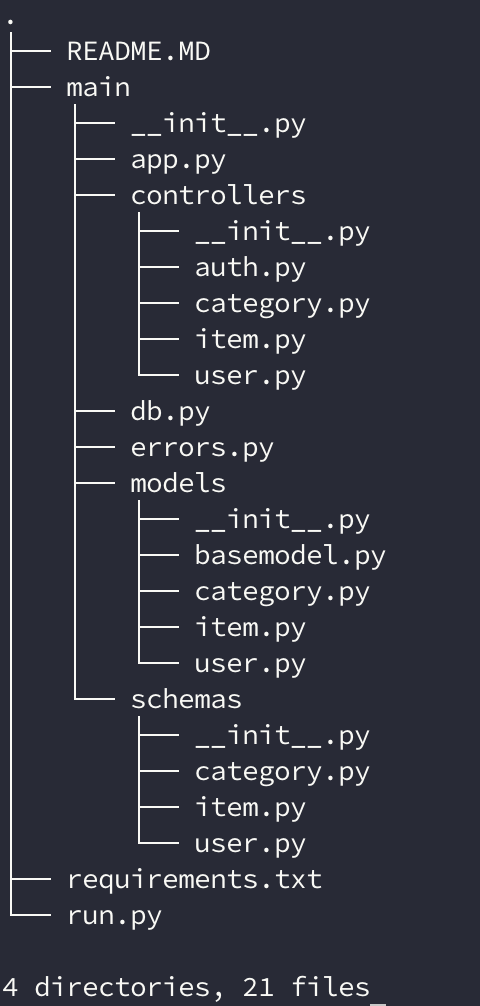
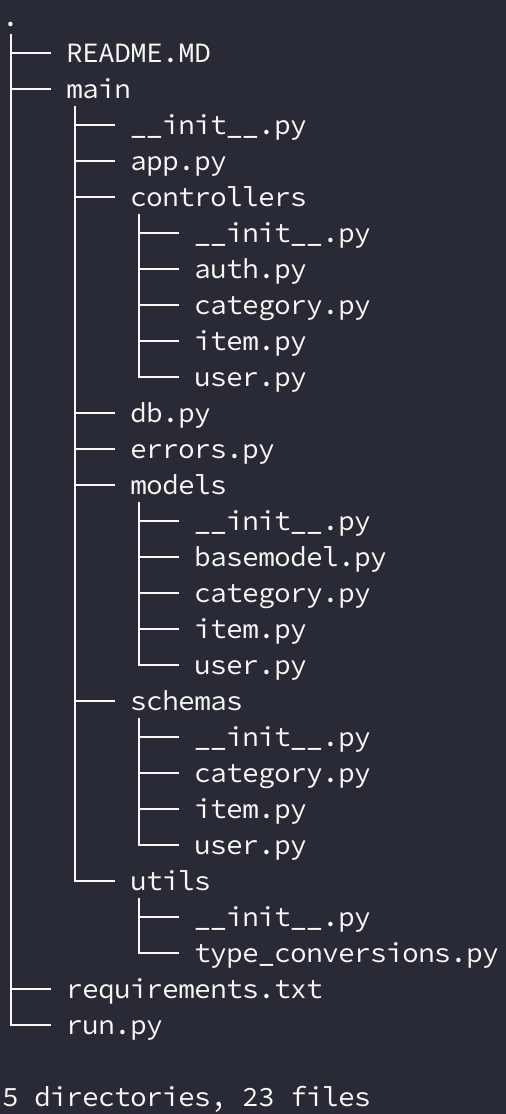
Update 2110_v2

diff --git a/server/main/controllers/category.py b/server/main/controllers/category.py
@@ -6,6 +6,7 @@ from main.errors import NotFound, DuplicatedEntity, FalseArguments
 from main.models.category import Category
 from main.models.item import Item
 from main.schemas.category import CategorySchema
+from main.utils.type_conversions import pagination_params_conversion
 
 category_api = Blueprint('category', __name__)
 
@@ -24,13 +25,17 @@ def get():
     :raise FalseArguments 400: When client passes invalid value for page, per_page
     :return: List of categories, current_page, per_page, total.
     """
+
     page = request.args.get('page', 1)
     per_page = request.args.get('per_page', 5)
 
-    if page < 0 or per_page < 0:
+    pagination_params = pagination_params_conversion(page, per_page)
+
+    if pagination_params is None:
         raise FalseArguments(error_message='Please insert a positive number for page/per_page')
 
-    paginator = Category.query.paginate(page=page, per_page=per_page, error_out=False)
+    paginator = Category.query.paginate(page=pagination_params[0],
+                                        per_page=pagination_params[1], error_out=False)
 
     result = categories_schema.dump(paginator.items)
     return {
@@ -71,8 +76,9 @@ def post():
     :raise ValidationError 400: if form is messed up
     :raise DuplicatedEntity 400: If try to create an existed object.
     :raise Unauthorized 401: If user is not login-ed
-    :return: id of the newly created category
+    :return: the created category
     """
+
     body = request.get_json()
     body['creator_id'] = get_jwt_identity()
 
@@ -103,8 +109,9 @@ def put(_id):
     :raise Unauthorized 401: If user is not login-ed
     :raise Forbidden 403: if user try to update other user's category
     :raise Not Found 404: If category with that id doesn't exist
-    :return: id of the newly created category
+    :return: the updated category
     """
+
     body = request.get_json()
 
     creator_id = get_jwt_identity()
@@ -115,6 +122,7 @@ def put(_id):
     else:
         if creator_id != category.creator_id:
             abort(403)
+
         CategorySchema(partial=True).load(body)
 
         title = body.get('title', None)
@@ -143,6 +151,7 @@ def delete(_id):
     :raise Not Found 404: If category with that id doesn't exist
     :return: 204 response
     """
+
     category = Category.find_by_id(_id)
 
     if category is None:

diff --git a/server/main/controllers/item.py b/server/main/controllers/item.py
@@ -5,6 +5,7 @@ from main.errors import NotFound, DuplicatedEntity, FalseArguments
 from main.models.category import Category
 from main.models.item import Item
 from main.schemas.item import ItemSchema
+from main.utils.type_conversions import pagination_params_conversion
 
 item_api = Blueprint('item', __name__)
 
@@ -24,18 +25,22 @@ def get():
     :raise FalseArguments 400: When client passes invalid value for page, per_page
     :return: List of items, current_page, per_page, total.
     """
+
     page = request.args.get('page', 1)
     per_page = request.args.get('per_page', 5)
     category_id = request.args.get('category_id', None)
+
+    pagination_params = pagination_params_conversion(page, per_page)
 
     query = {}
     if category_id is not None:
         query['category_id'] = category_id
 
-    if page < 0 or per_page < 0:
+    if pagination_params is None:
         raise FalseArguments(error_message='Please insert a positive number for page/per_page')
 
-    paginator = Item.query.filter_by(**query).paginate(page=page, per_page=per_page, error_out=False)
+    paginator = Item.query.filter_by(**query)\
+        .paginate(page=pagination_params[0], per_page=pagination_params[1], error_out=False)
     result = items_schema.dump(paginator.items)
 
     return {
@@ -79,8 +84,9 @@ def post():
     :raise DuplicatedEntity 400: If try to create an existed object.
     :raise Unauthorized 401: If not login
     :raise NotFound 404: If category_id is not valid
-    :return: id of the newly created item
+    :return: the created item
     """
+
     body = request.get_json()
     body['creator_id'] = get_jwt_identity()
 
@@ -117,7 +123,7 @@ def put(_id):
     :raise Unauthorized 401: If not login
     :raise Forbidden 403: If user tries to delete other user's items
     :raise NotFound 404: If category_id is not valid or item with id is not valid
-    :return: id of the newly created item
+    :return: the updated item
     """
     body = request.get_json()
     body['creator_id'] = get_jwt_identity()

diff --git a/server/main/errors.py b/server/main/errors.py
@@ -112,11 +112,11 @@ def handle_database_error(error):
     return response, 500
 
 
-@error_handlers.app_errorhandler(Exception)
-def handle_all_errors(error):
-    response = jsonify({
-        'error_code': 50001,
-        'error_message': 'Something bad happened.'
-    })
-    response.status_code = 500
-    return response
+# @error_handlers.app_errorhandler(Exception)
+# def handle_all_errors(error):
+#     response = jsonify({
+#         'error_code': 50001,
+#         'error_message': 'Something bad happened.'
+#     })
+#     response.status_code = 500
+#     return response

diff --git a/server/main/app.py b/server/main/app.py
@@ -17,7 +17,7 @@ app.config['SQLALCHEMY_TRACK_MODIFICATIONS'] = False
 app.config['SQLALCHEMY_DATABASE_URI'] = os.environ.get('DATABASE_URL')
 app.config['JWT_SECRET_KEY'] = os.environ.get('JWT_SECRET_KEY')
 app.config['JWT_ERROR_MESSAGE_KEY'] = 'error_message'
-app.secret_key = os.environ.get('APP_SECRET_KEY')
+app.config['SECRET_KEY'] = os.environ.get('APP_SECRET_KEY')
 
 jwt = JWTManager(app)
 

diff --git a/server/main/utils/type_conversions.py b/server/main/utils/type_conversions.py
@@ -1,0 +1,9 @@
+def pagination_params_conversion(page, per_page):
+    try:
+        page = int(page)
+        per_page = int(per_page)
+        if page <= 0 or per_page <= 0:
+            return None
+        return page, per_page
+    except ValueError:
+        return None

diff --git a/server/main/controllers/auth.py b/server/main/controllers/auth.py
@@ -19,6 +19,7 @@ def login():
     :raise ValidationError 400: If body of request is messed up
     :return: access_token and id of the newly created user
     """
+
     data = request.get_json()
 
     email = data.get('email', None)
